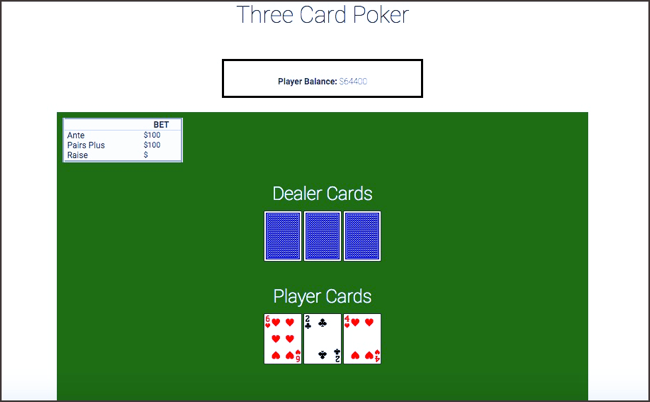
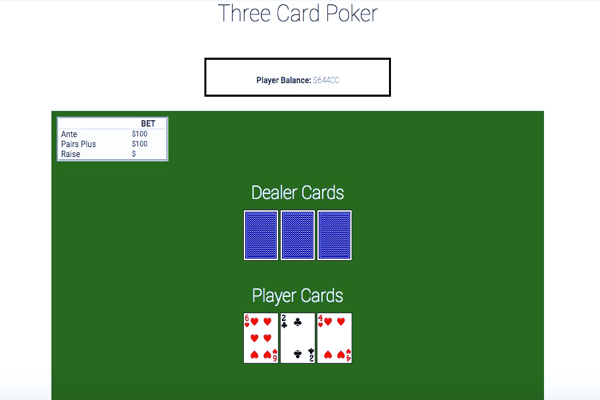
updates

diff --git a/index.html b/index.html
@@ -235,86 +235,78 @@
         </div>
       </div>
       <div class="row">
-        <div class="col-sm-6 col-md-4">
+        <div class="portfolio-thumbnails">
           <div class="thumbnail">
-            <img src="./public/images/threecardpoker.jpg" alt="three card poker">
+            <img src="./public/images/threecardpoker-new.png" alt="three card poker">
             <div class="caption">
               <h3>Three Card Poker</h3>
               <p>An interactive online Three Card Poker game using Node.js, express, MySQL, handlebars, NPM Package control, MVC/ORM, and other cool technologies!</p>
               <p>
-                <a href="https://github.com/kellymersereau/Three-Card-Poker" target="_blank" class="btn btn-default btn-lg">
+                <a href="https://github.com/kellymersereau/Three-Card-Poker" target="_blank" class="btn">
                   <i class="fa fa-github fa-fw"></i>
                   <span class="network-name"> Github</span>
                 </a>
-                <a href="http://threecardpoker.herokuapp.com/" target="_blank" class="btn btn-default btn-lg">
+                <a href="http://threecardpoker.herokuapp.com/" target="_blank" class="btn">
                   <i class="fa fa-trophy fa-fw"></i>
-                  <span class="network-name"> Heroku</span>
+                  <span class="network-name"> Site</span>
                 </a>
               </p>
             </div>
           </div>
-        </div>
-        <div class="col-sm-6 col-md-4">
           <div class="thumbnail">
-            <img src="./public/images/spurofthemoment.jpg" alt="spur of the moment">
+            <img src="./public/images/spurofthemoment-new.png" alt="spur of the moment">
             <div class="caption">
               <h3>Spur of the Moment</h3>
               <p>A music based event locator application - using HTML, CSS, Bootstrap, Javascript, jQuery, AJAX, APIs.</p>
               <p>
-                <a href="https://github.com/kellymersereau/spurofthemoment" target="_blank" class="btn btn-default btn-lg">
+                <a href="https://github.com/kellymersereau/spurofthemoment" target="_blank" class="btn">
                   <i class="fa fa-github fa-fw"></i>
                   <span class="network-name"> Github</span>
                 </a>
-                <a href="https://spur0fthem0ment.herokuapp.com/ " target="_blank" class="btn btn-default btn-lg">
+                <a href="https://spur0fthem0ment.herokuapp.com/ " target="_blank" class="btn">
                   <i class="fa fa-trophy fa-fw"></i>
-                  <span class="network-name"> Heroku</span>
+                  <span class="network-name"> Site</span>
                 </a>
               </p>
             </div>
           </div>
-        </div>
-        <!--         <div class="col-sm-6 col-md-4">
           <div class="thumbnail">
-            <img src="./public/images/TriviaHunt.jpg" alt="trivia hunt">
+            <img src="./public/images/giphy-search.png" alt="giphy-search">
             <div class="caption">
               <h3>Trivia Hunt</h3>
               <p>Explore new places and answer puzzling trivia questions in a "Choose Your Own Adventure" type game - using Meteor, Google Maps API, OpenTDB API, MongoDB, HTML, CSS, Bootstrap, Stylus</p>
               <p>
-                <a href="https://github.com/kellymersereau/Final-Project" target="_blank" class="btn btn-default btn-lg">
+                <a href="https://github.com/kellymersereau/Week-6-Homework" target="_blank" class="btn">
                   <i class="fa fa-github fa-fw"></i>
                   <span class="network-name"> Github</span>
                 </a>
-                <a href="http://triviahunt.herokuapp.com/" target="_blank" class="btn btn-default btn-lg">
+                <a href="https://shielded-reef-61563.herokuapp.com/" target="_blank" class="btn">
                   <i class="fa fa-trophy fa-fw"></i>
-                  <span class="network-name"> Heroku</span>
+                  <span class="network-name"> Site</span>
                 </a>
               </p>
             </div>
           </div>
-        </div> -->
-        <div class="col-sm-6 col-md-4">
           <div class="thumbnail">
-            <img src="./public/images/customer-view.jpg" alt="Bamazon">
+            <img src="./public/images/customer-view-new.png" alt="Bamazon">
             <div class="caption">
               <h3>Bamazon</h3>
               <p>An interactive shopping node app where MySQL and Node.JS are used to allow users to purchase items as a customer, view, track and update the product inventory as a manager, and track the total sales by department as an executive.</p>
               <p>
-                <a href="https://github.com/kellymersereau/Bamazon" target="_blank" class="btn btn-default btn-lg">
+                <a href="https://github.com/kellymersereau/Bamazon" target="_blank" class="btn">
                   <i class="fa fa-github fa-fw"></i>
                   <span class="network-name"> Github</span>
                 </a>
               </p>
             </div>
           </div>
-        </div>
-        <div class="col-sm-6 col-md-4">
           <div class="thumbnail">
-            <img src="./public/images/liri-node.jpg" alt="liri node">
+            <img src="./public/images/liri-node-new.png" alt="liri node">
             <div class="caption">
               <h3>Liri-Node App</h3>
               <p>LIRI is a command line node app that allows users to choose what type of data they wish to search for and what to information to search under each category. It returns the information to the console and also stores the data in the log.txt file</p>
               <p>
-                <a href="https://github.com/kellymersereau/liri-node-app" target="_blank" class="btn btn-default btn-lg">
+                <a href="https://github.com/kellymersereau/liri-node-app" target="_blank" class="btn">
                   <i class="fa fa-github fa-fw"></i>
                   <span class="network-name"> Github</span>
                 </a>

diff --git a/public/css/styles.css b/public/css/styles.css
@@ -6924,9 +6924,10 @@ footerp {
   font-size: .9em;
 }
 .smallFooter {
-  font-size: 2em;
+  font-size: .85em;
   padding-bottom: 15px;
   font-weight: 300;
+  font-style: italic;
 }
 html {
   width: 100%;
@@ -6984,6 +6985,7 @@ a:focus {
   color: #595656;
 }
 .light {
+  font-family: "Montserrat", "Helvetica Neue", Helvetica, Arial, sans-serif;
   font-weight: 300;
 }
 .navbar-custom {
@@ -7063,8 +7065,49 @@ a:focus {
   color: #ffffff;
   background-color: rgba(0, 51, 102, 0.6);
 }
+.portfolio-thumbnails {
+  display: flex;
+  flex-wrap: wrap;
+  flex-direction: row;
+  align-items: flex-start;
+  justify-content: space-around;
+}
 .thumbnail {
-  height: 40.625em;
+  align-content: center;
+  margin: 1em;
+}
+.thumbnail img {
+  margin: 0 auto;
+  max-width: 300px;
+  max-height: 200px;
+}
+.thumbnail .caption {
+  display: none;
+}
+.thumbnail:hover {
+  background-color: rgba(50, 50, 50, 0.5);
+}
+.thumbnail:hover img {
+  display: none;
+}
+.thumbnail:hover .caption {
+  display: block;
+  max-width: 300px;
+  max-height: 200px;
+  font-size: .75em;
+  color: #ffffff;
+}
+.thumbnail:hover .caption p {
+  margin: 0 0 10px;
+}
+.thumbnail:hover .caption .btn {
+  border: 1px solid #ffffff;
+}
+.thumbnail:hover .caption .btn i {
+  color: #ffffff;
+}
+.thumbnail:hover .caption .network-name {
+  color: #ffffff;
 }
 .resume-section {
   width: 100%;

diff --git a/src/styles.css b/src/styles.css
@@ -6924,9 +6924,10 @@ footerp {
   font-size: .9em;
 }
 .smallFooter {
-  font-size: 2em;
+  font-size: .85em;
   padding-bottom: 15px;
   font-weight: 300;
+  font-style: italic;
 }
 html {
   width: 100%;
@@ -6984,6 +6985,7 @@ a:focus {
   color: #595656;
 }
 .light {
+  font-family: "Montserrat", "Helvetica Neue", Helvetica, Arial, sans-serif;
   font-weight: 300;
 }
 .navbar-custom {
@@ -7063,8 +7065,49 @@ a:focus {
   color: #ffffff;
   background-color: rgba(0, 51, 102, 0.6);
 }
+.portfolio-thumbnails {
+  display: flex;
+  flex-wrap: wrap;
+  flex-direction: row;
+  align-items: flex-start;
+  justify-content: space-around;
+}
 .thumbnail {
-  height: 40.625em;
+  align-content: center;
+  margin: 1em;
+}
+.thumbnail img {
+  margin: 0 auto;
+  max-width: 300px;
+  max-height: 200px;
+}
+.thumbnail .caption {
+  display: none;
+}
+.thumbnail:hover {
+  background-color: rgba(50, 50, 50, 0.5);
+}
+.thumbnail:hover img {
+  display: none;
+}
+.thumbnail:hover .caption {
+  display: block;
+  max-width: 300px;
+  max-height: 200px;
+  font-size: .75em;
+  color: #ffffff;
+}
+.thumbnail:hover .caption p {
+  margin: 0 0 10px;
+}
+.thumbnail:hover .caption .btn {
+  border: 1px solid #ffffff;
+}
+.thumbnail:hover .caption .btn i {
+  color: #ffffff;
+}
+.thumbnail:hover .caption .network-name {
+  color: #ffffff;
 }
 .resume-section {
   width: 100%;

diff --git a/src/portfolio.less b/src/portfolio.less
@@ -24,9 +24,47 @@
     	background-color: rgba(0, 51, 102, 0.6);
     }
 }
+.portfolio-thumbnails {
+    display: flex;
+    flex-wrap: wrap;
+    flex-direction: row;
+    align-items: flex-start;
+    justify-content: space-around;
+}
 .thumbnail {
-    height: 40.625em;
+    align-content: center;
+    margin: 1em;
+    img {
+        margin: 0 auto;
+        max-width: 300px;
+        max-height: 200px;
+    }
+    .caption {
+        display: none;
+    }
     &:hover {
-        background-color: #000000;
+        background-color: rgba(50, 50, 50, 0.5);
+        img {
+            display: none;
+        }
+        .caption {
+            display: block;
+            max-width: 300px;
+            max-height: 200px;
+            font-size: .75em;
+            color: @white;
+            p {
+                margin: 0 0 10px;
+            }
+            .btn{
+                border: 1px solid rgba(255, 255, 255, 1.0);
+                i {
+                    color: rgba(255, 255, 255, 1.0)
+                }
+            }
+            .network-name {
+                color: rgba(255, 255, 255, 1.0);
+            }
+        }
     }
 }

diff --git a/src/footer.less b/src/footer.less
@@ -16,7 +16,8 @@ footer {
     font-size: .9em;
 }
 .smallFooter{
-	font-size: 2em;
+	font-size: .85em;
 	padding-bottom: 15px;
 	font-weight: @light-font;
+	font-style: italic;
 }

diff --git a/src/main.less b/src/main.less
@@ -55,5 +55,6 @@ a {
 
 //light text
 .light {
+	font-family: @header-font;
 	font-weight: @light-font;
 }
